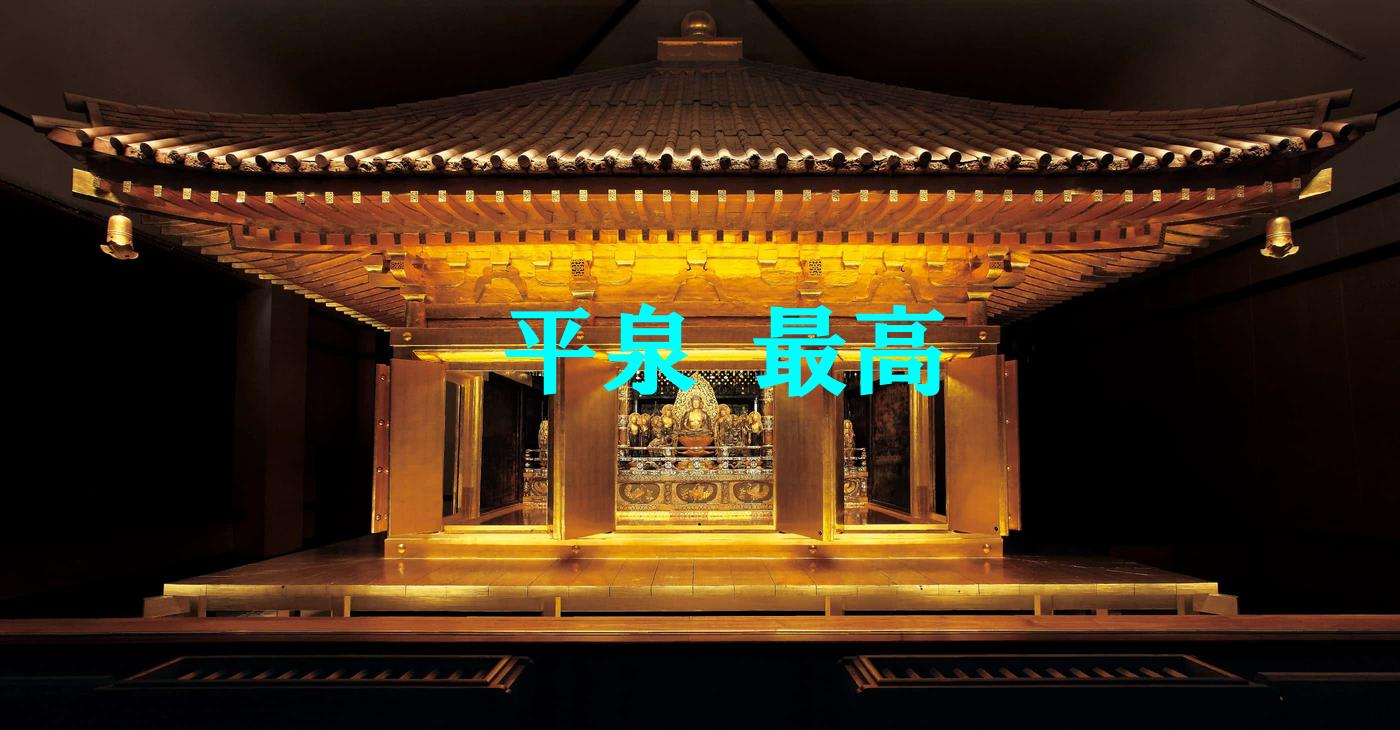
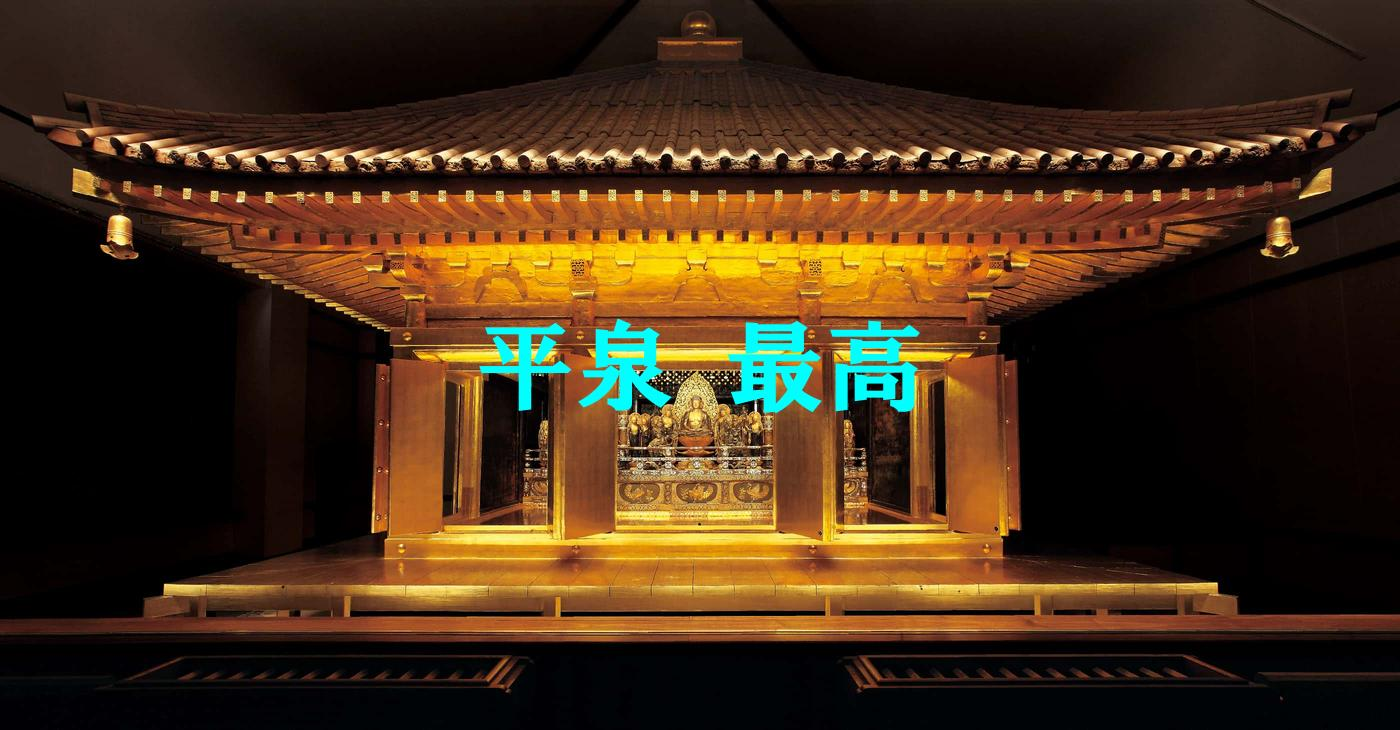
refactoring app.py

Changed region(s): [[0.3379, 0.4219, 0.6757, 0.5726]]

diff --git a/app.py b/app.py
@@ -11,31 +11,56 @@ from PIL import ImageFont
 
 
 """ Pillowによる画像への描画 """
-# pathを格納する
+# pathを格納する(元画像)
 use_image_file_pillow = "images/konjikido_01.jpg"
-# ファイルを開く
+
+# ファイルを開く(元画像)
 img_pillow = Image.open(use_image_file_pillow)
-# resize
+
+# resizeしたファイルを再度格納
 img_resize_lanczos = img_pillow.resize((1400, 730), Image.LANCZOS)
+
+# resizeファイルを保存
 img_resize_lanczos.save("images/resize_pillow_konjikido_01.jpg")
-# img_resize = img_pillow.resize((1400, 730))
-# img_resize.save("images/resize_pillow_konjikido_01.jpg")
 
 # Drawオブジェクトを生成
 draw_pillow = ImageDraw.Draw(img_resize_lanczos)
 
-# フォントオブジェクト生成
+# フォントオブジェクトを生成
 font = ImageFont.truetype("C:/Windows/Fonts/HGRPRE.TTC", 100)
 
-# draw_pillow.text((500, 500), "平泉 最高", "red")
-draw_pillow.multiline_text(
-    (500, 300),
-    "平泉 最高",
-    fill=(0, 255, 255),
-    font=font,
-    align="center",
-)
-img_resize_lanczos.save("images/result_pillow_konjikido_01.jpg")
+
+def drawing(img, text, fill, font, align):
+    """指定画像に対して、描画オプションを付与する
+    img: 描画対象画像のファイルパス
+    text: 描画テキスト
+    fill: カラー
+    font: フォント
+    align: 文字揃え
+    """
+    # 描画対象画像のheightとwidthを取得する
+    h1, w1 = img.size
+    # 指定テキストのheightとwidthを取得する
+    th2, tw2 = font.getsize(text)
+
+    # 描画
+    draw_pillow.multiline_text(
+        ((h1 - th2) // 2, (w1 - tw2) // 2),
+        text=text,
+        fill=fill,
+        font=font,
+        align=align,
+    )
+    # 描画後の保存
+    img.save("images/result_pillow_konjikido_01.jpg")
+
+
+def main():
+    drawing(img_resize_lanczos, "平泉 最高", (0, 255, 255), font, "center")
+
+
+if __name__ == "__main__":
+    main()
 
 
 """ ここから下はOpenCVによる画像への描画 """
